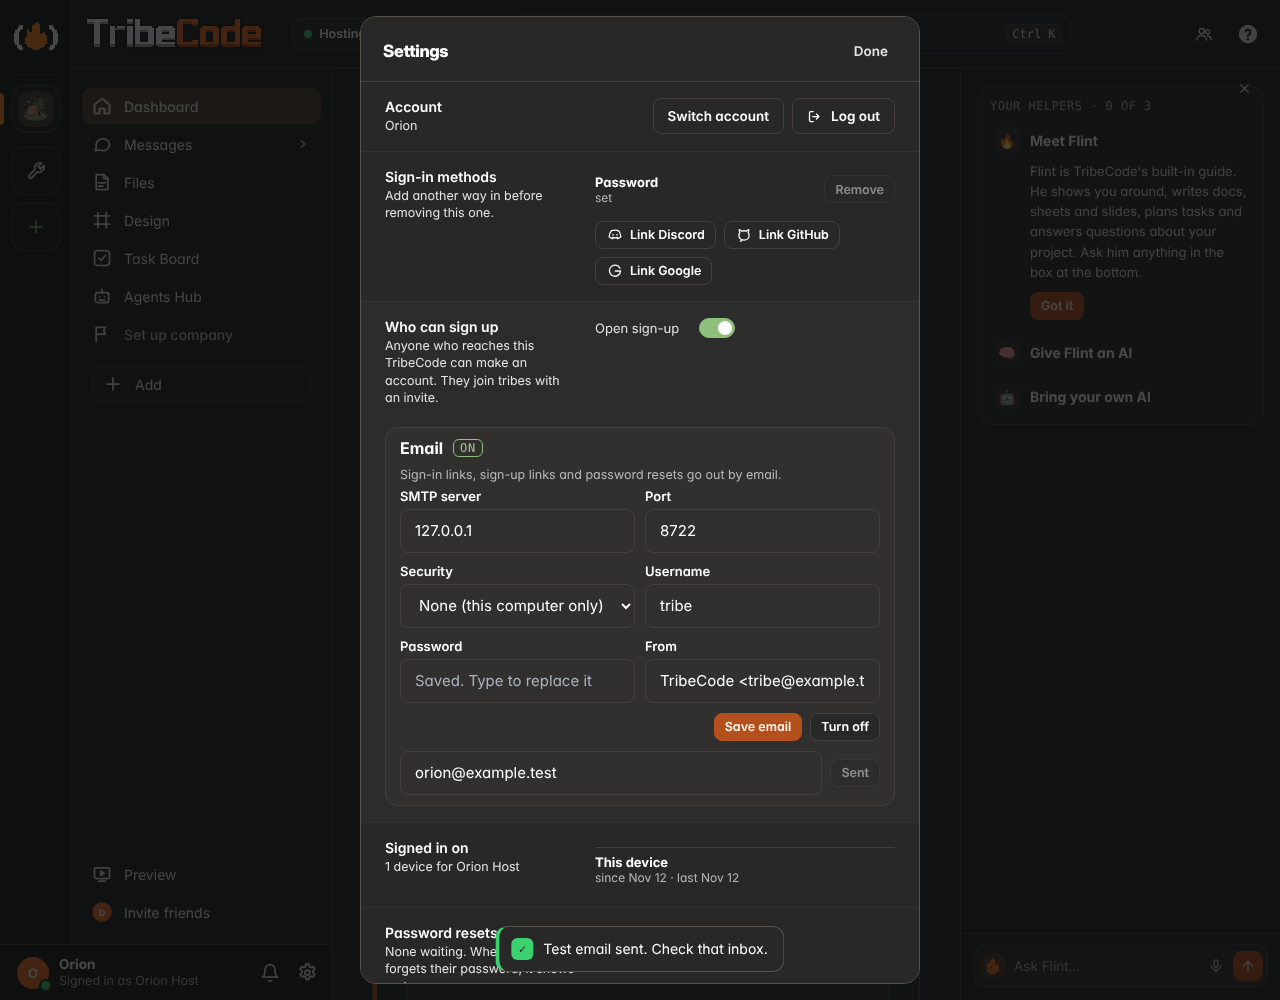
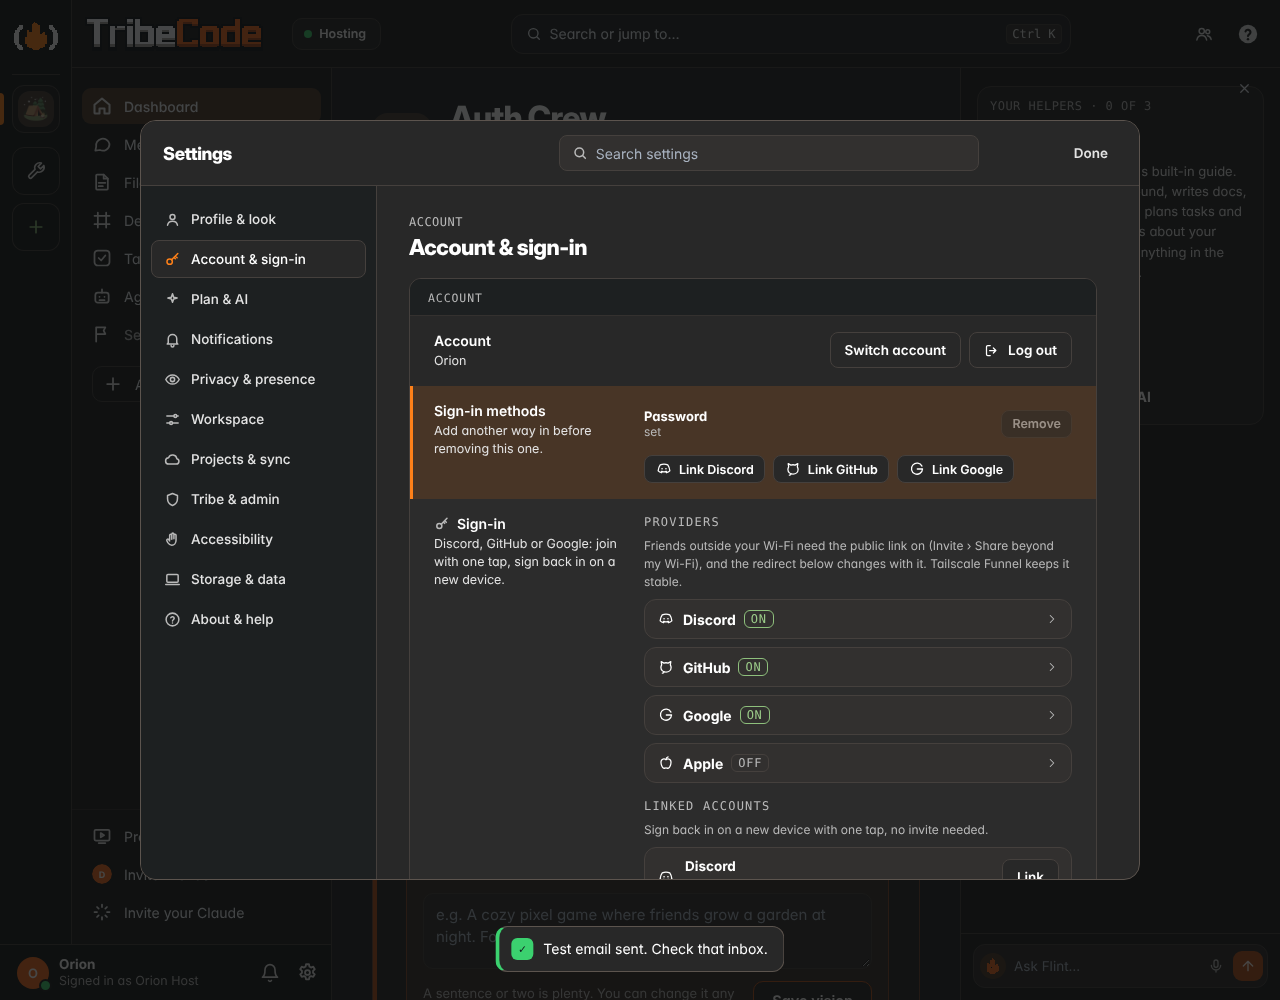
e2e_auth2: sign-in methods in Settings › Account, open sign-up and SMTP in Settings › Tribe & admin
Claude-Session: https://claude.ai/code/session_01Twew38tmNVdwNycXqatzin

diff --git a/app/test/e2e_auth2.py b/app/test/e2e_auth2.py
@@ -423,12 +423,13 @@ def main():
             hp = hx.new_page(); hp.on("pageerror", lambda e: errors.append(f"host: {e}"))
             hp.goto(BASE + "/?skipIntro=1")
             hp.wait_for_function("() => window.TribeClient && window.TribeClient.connected()", timeout=20000)
-            hp.evaluate("() => window.TribeSettings.open()")
+            hp.evaluate("() => window.TribeSettings.open('account')")   # Settings › Account & sign-in: sign-in methods
             hp.wait_for_selector("#set-methods li[data-m='password']", timeout=15000)
-            hp.wait_for_selector("#set-signin-host #au-open", timeout=15000)
+            hp.wait_for_selector("#set-signin-host #au-open", state="attached", timeout=15000)
             assert hp.locator("#set-methods [data-unlink='password']").is_disabled(), "the only method can't be removed"
             assert hp.locator("#set-methods [data-link='discord']").count() == 1
             assert hp.get_attribute("#au-open", "aria-checked") == "true"
+            hp.evaluate("() => window.TribeSettings.open('admin', 'set-signin-host')"); hp.wait_for_selector("#au-open", state="visible")   # Settings › Tribe & admin: open sign-up, SMTP
             hp.click("#au-open")
             hp.wait_for_function("document.querySelector('#au-open') && document.querySelector('#au-open').getAttribute('aria-checked') === 'false'", timeout=10000)
             assert ok(api("/accounts/config"))["openSignup"] is False
@@ -439,7 +440,7 @@ def main():
             n2 = len(MAIL)
             hp.fill("#au-test-to", "orion@example.test"); hp.click("#au-test-go")
             wait_mail(n2 + 1, "test email from Settings")
-            hp.locator("#set-methods").scroll_into_view_if_needed()
+            hp.evaluate("() => window.TribeSettings.open('account', 'set-methods')"); hp.wait_for_selector("#set-methods", state="visible")
             hp.wait_for_timeout(400)
             hp.screenshot(path=str(SHOTS / "auth-settings.png"))
             b.close()
